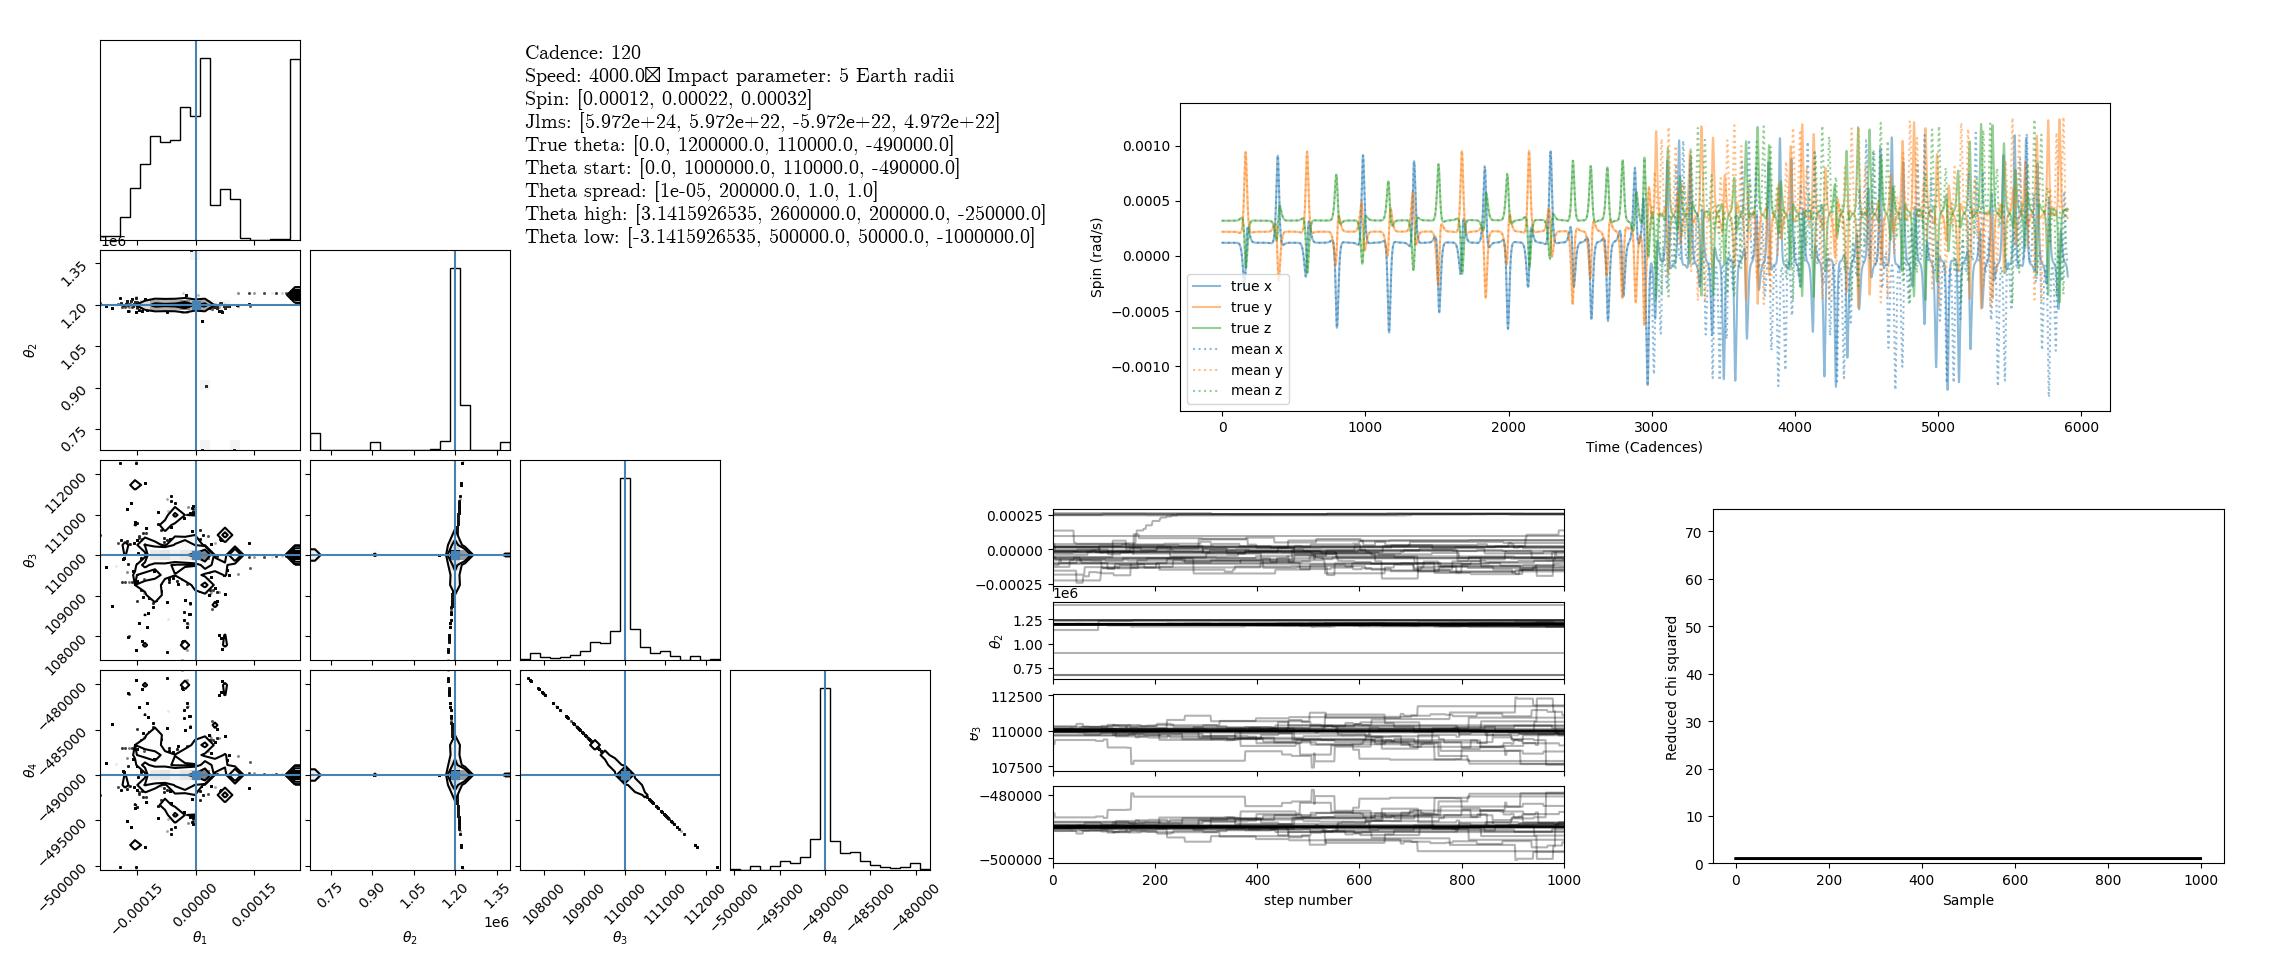
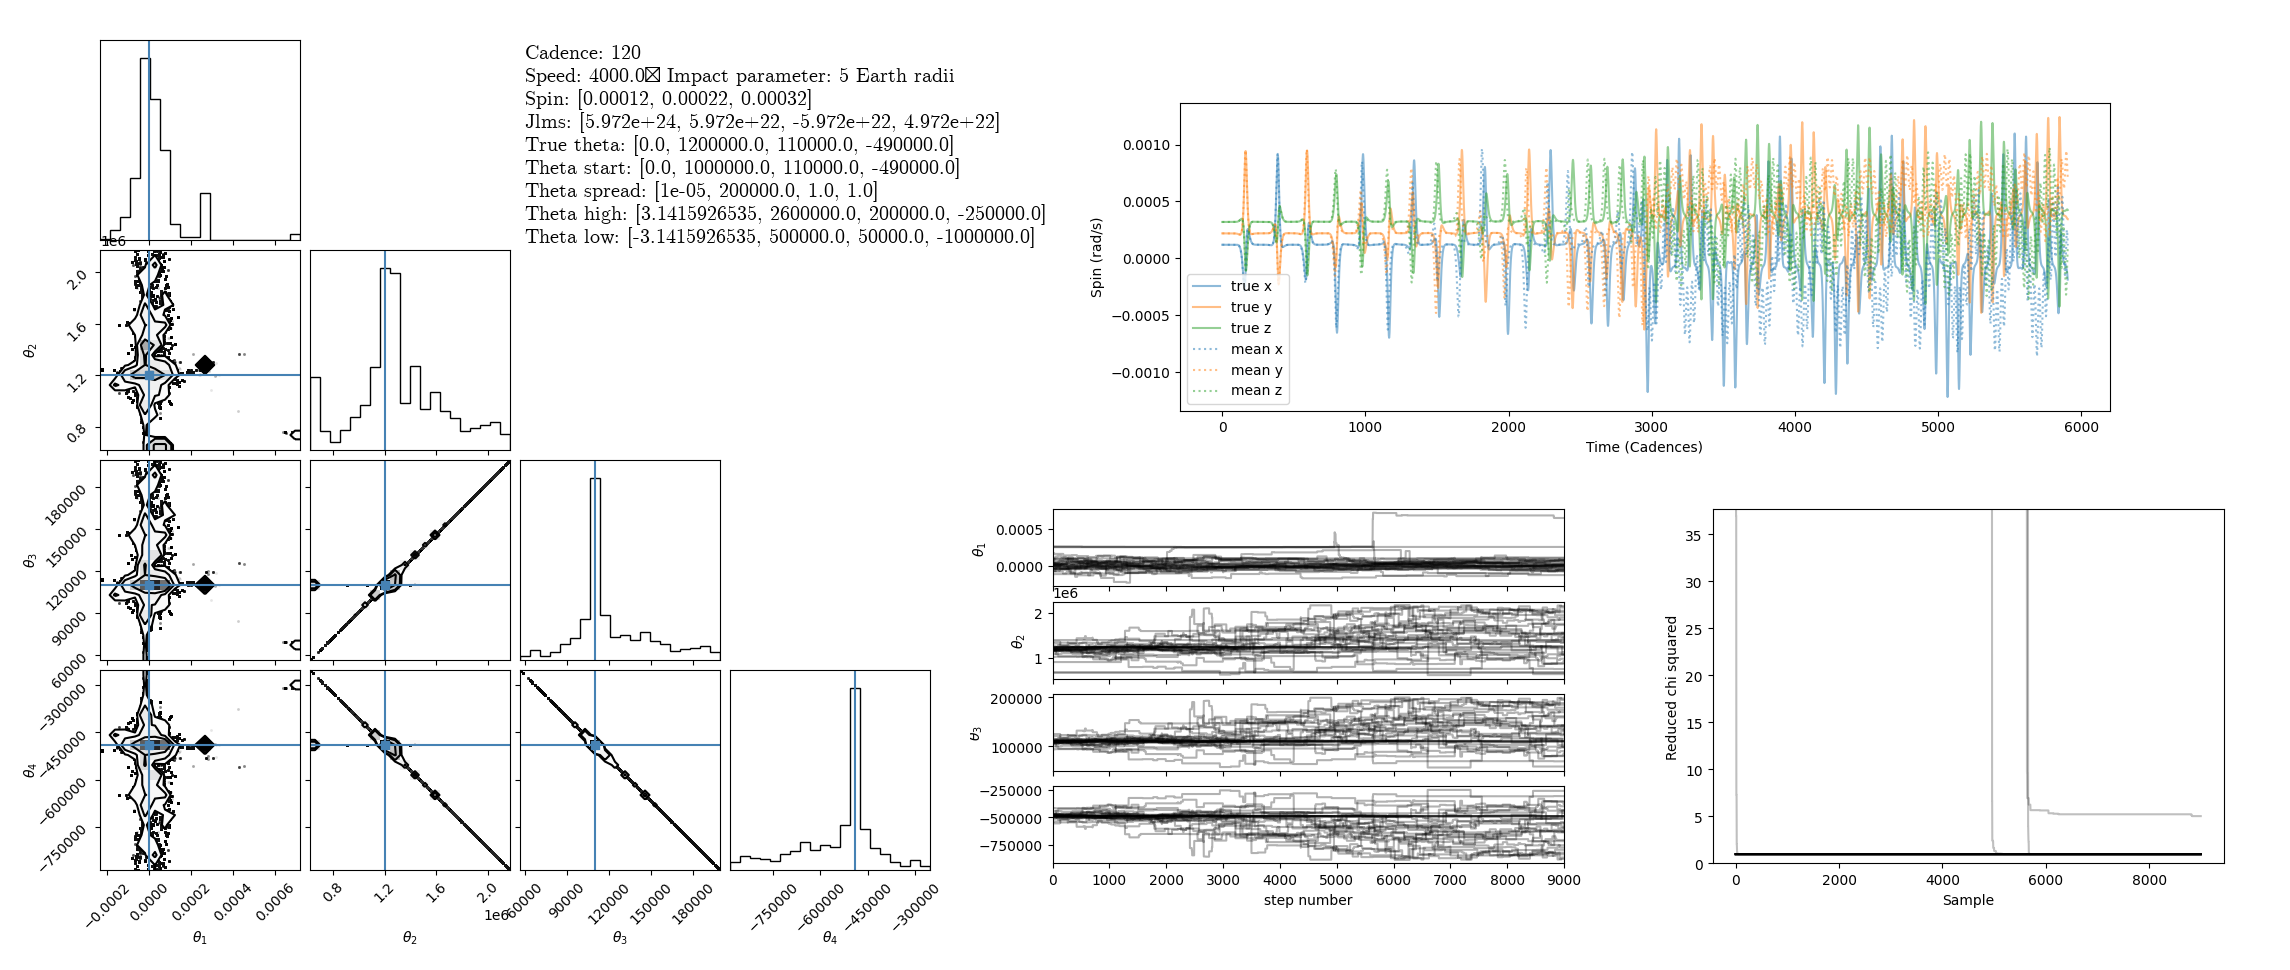
Next fit staged

diff --git a/code/fit_resolved/call.py b/code/fit_resolved/call.py
@@ -3,7 +3,7 @@ import matplotlib.pyplot as plt
 from random_vector import *
 import numpy as np
 
-CADENCE = 600.0
+CADENCE = 120
 
 EARTH_RADIUS = 6370000
 EARTH_MASS =5.972e24
@@ -14,21 +14,22 @@ speed = 4000
 jlms = [EARTH_MASS, 0, 6e22, 7e22]
 klmss = [
     [1.2e6, 1.1e5, -4.9e5],
-    [1.2e6, 1.2e5, -5.0e5],
-    [1.2e6, 1.2e5, -4.8e5]
+    [1.2e6, 1.1e5, -4.9e5],
 ]
 SIGMA = 0.02 * np.sqrt(spin[0]**2 + spin[1]**2 + spin[2]**2)
 initial_rolls = [
     0,
-    0,0
+    0,
 ]
+
+SHOW_ERROR = False
 
 
 plt.figure(figsize=(12, 4))
 
-for i in range(len(initial_rolls)):
-    initial_roll = initial_rolls[i]
-    klms = klmss[i]
+for data_iter in range(len(initial_rolls)):
+    initial_roll = initial_rolls[data_iter]
+    klms = klmss[data_iter]
 
     start = time.time()
     try:
@@ -47,18 +48,28 @@ for i in range(len(initial_rolls)):
             f.write('\n')
     f.close()
 
+    if SHOW_ERROR:
+        y, yerr = randomize_flat(resolved_data, SIGMA)
 
-    y, yerr = randomize_flat(resolved_data, SIGMA)
-
-    x_display = np.arange(len(y) / 3)
-    if i == 0:
-        plt.errorbar(x_display, y[::3], yerr=yerr[::3], label='x', fmt='.')
-        #plt.errorbar(x_display, y[1::3], yerr=yerr[1::3], label = 'y', fmt='.')
-        #plt.errorbar(x_display, y[2::3], yerr=yerr[2::3], label = 'z', fmt='.')
+        x_display = np.arange(len(y) / 3)
+        if data_iter == 0:
+            plt.plot(x_display, y[::3], yerr=yerr[::3], label='x', fmt='.', color='C0', alpha=0.5)
+            #plt.errorbar(x_display, y[1::3], yerr=yerr[1::3], label = 'y', fmt='.')
+            #plt.errorbar(x_display, y[2::3], yerr=yerr[2::3], label = 'z', fmt='.')
+        else:
+            plt.errorbar(x_display, y[::3], yerr=yerr[::3], fmt='.', color='C0', alpha=0.5)
+            #plt.errorbar(x_display, y[1::3], yerr=yerr[1::3], fmt='.')
+            #plt.errorbar(x_display, y[2::3], yerr=yerr[2::3], fmt='.')
     else:
-        plt.errorbar(x_display, y[::3], yerr=yerr[::3], fmt='.')
-        #plt.errorbar(x_display, y[1::3], yerr=yerr[1::3], fmt='.')
-        #plt.errorbar(x_display, y[2::3], yerr=yerr[2::3], fmt='.')
+        x_display = np.arange(len(resolved_data) / 3)
+        if data_iter == 0:
+            plt.plot(x_display, resolved_data[::3], label='x', color='C0', alpha=0.5)
+            plt.plot(x_display, resolved_data[1::3], label = 'y', color='C1', alpha=0.5)
+            plt.plot(x_display, resolved_data[2::3], label = 'z', color='C2', alpha=0.5)
+        else:
+            plt.plot(x_display, resolved_data[::3], color='C0', alpha=0.5, linestyle=':')
+            plt.plot(x_display, resolved_data[1::3], color='C1', alpha=0.5, linestyle=':')
+            plt.plot(x_display, resolved_data[2::3], color='C2', alpha=0.5, linestyle=':')
 
 plt.xlabel("Time (Cadences)")
 plt.ylabel("Spin (rad/s)")
